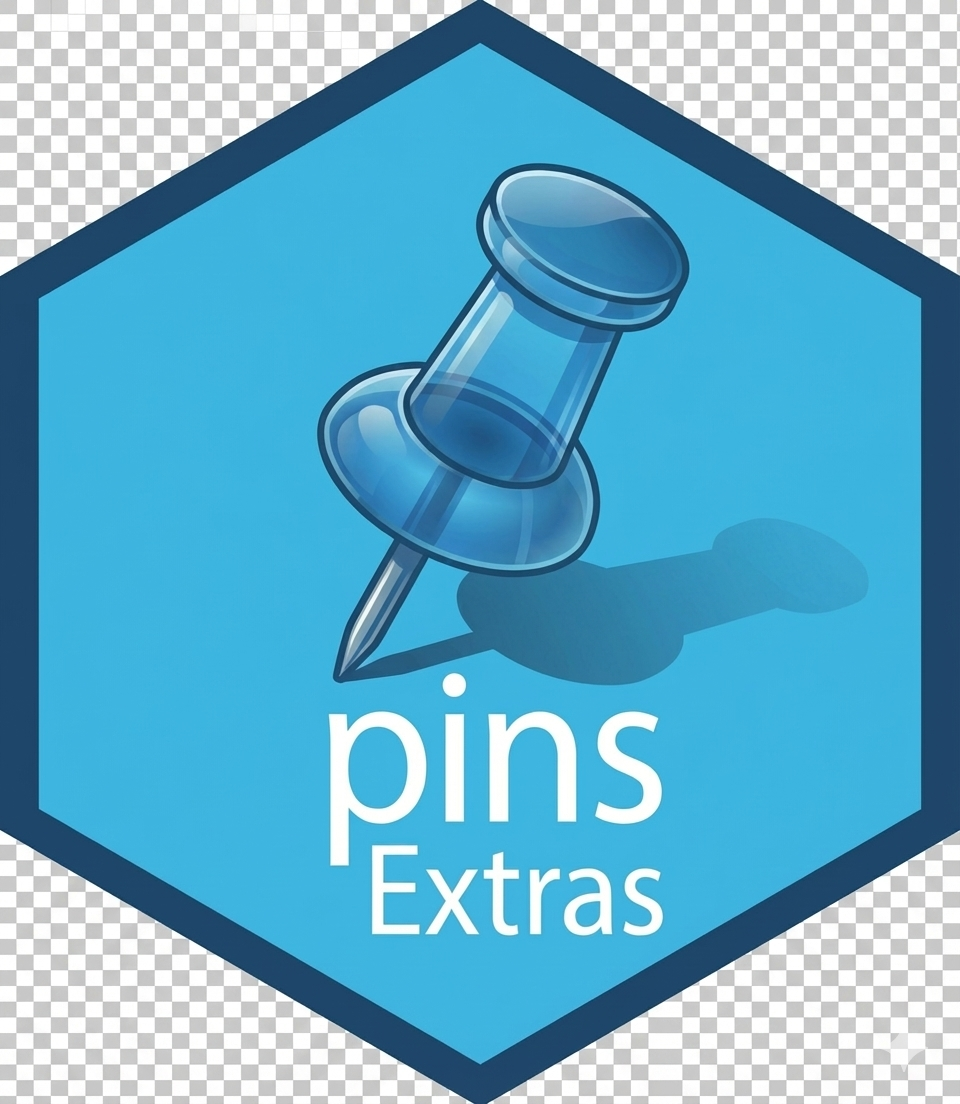
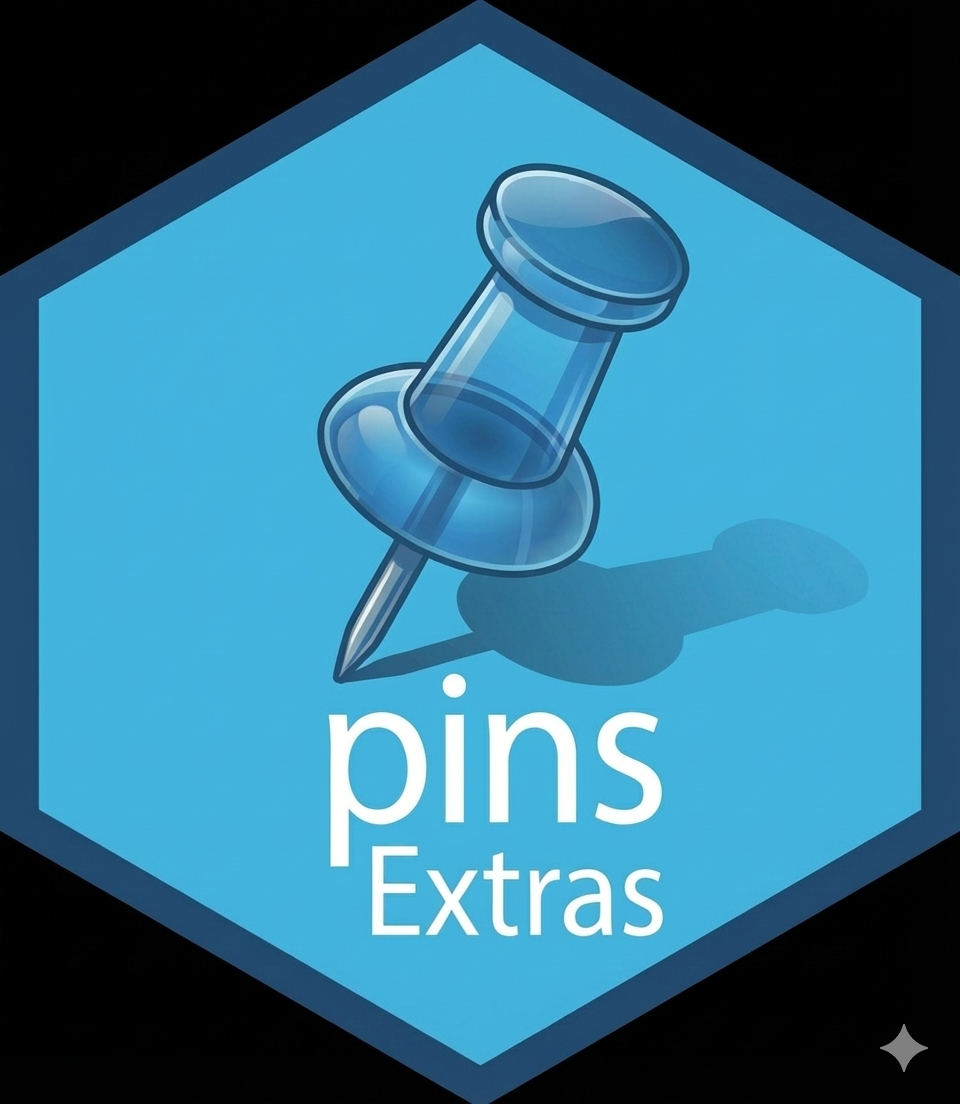
fix hex image - again

diff --git a/README.md b/README.md
@@ -369,4 +369,4 @@ BibTeX entry:
 
 ------------------------------------------------------------------------
 
-**Note:** This is a standalone package and is not affiliated with or endorsed by Posit Software, PBC or Snowflake Inc.
+**Note:** This is a standalone package and is not affiliated with or endorsed by Posit Software, PBC or Snowflake Inc. Hex image by Nano Banana!
